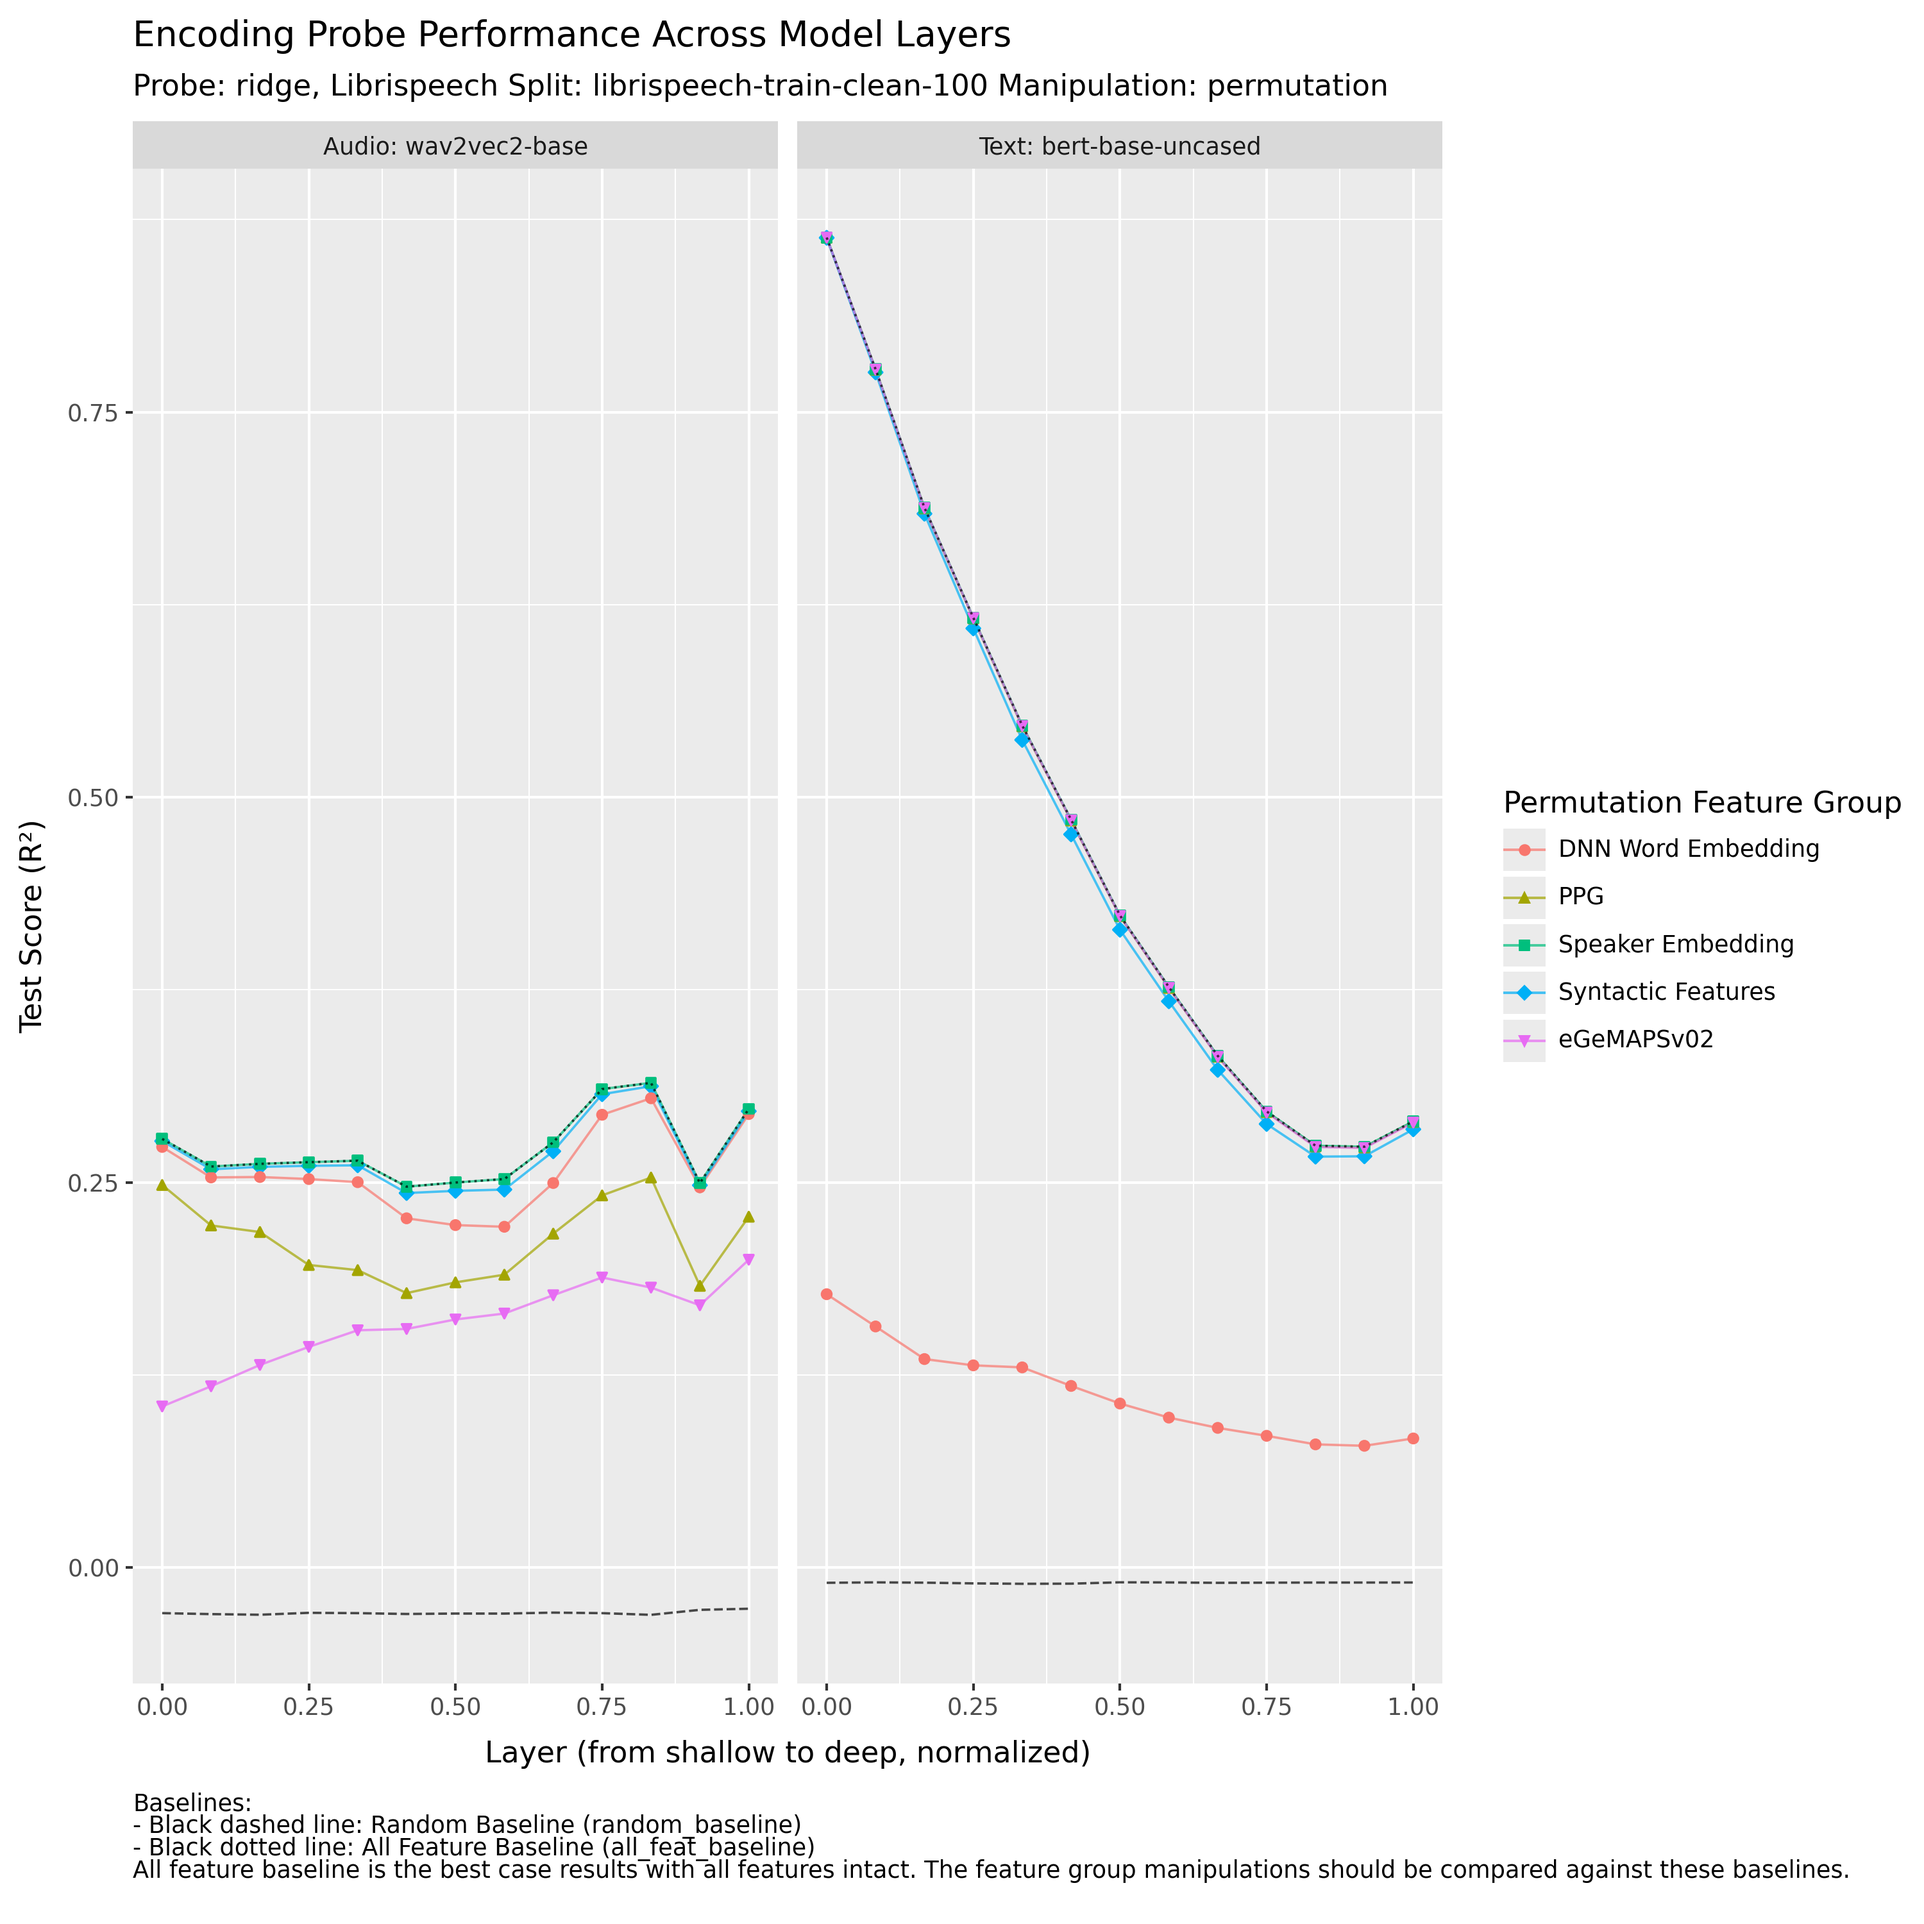
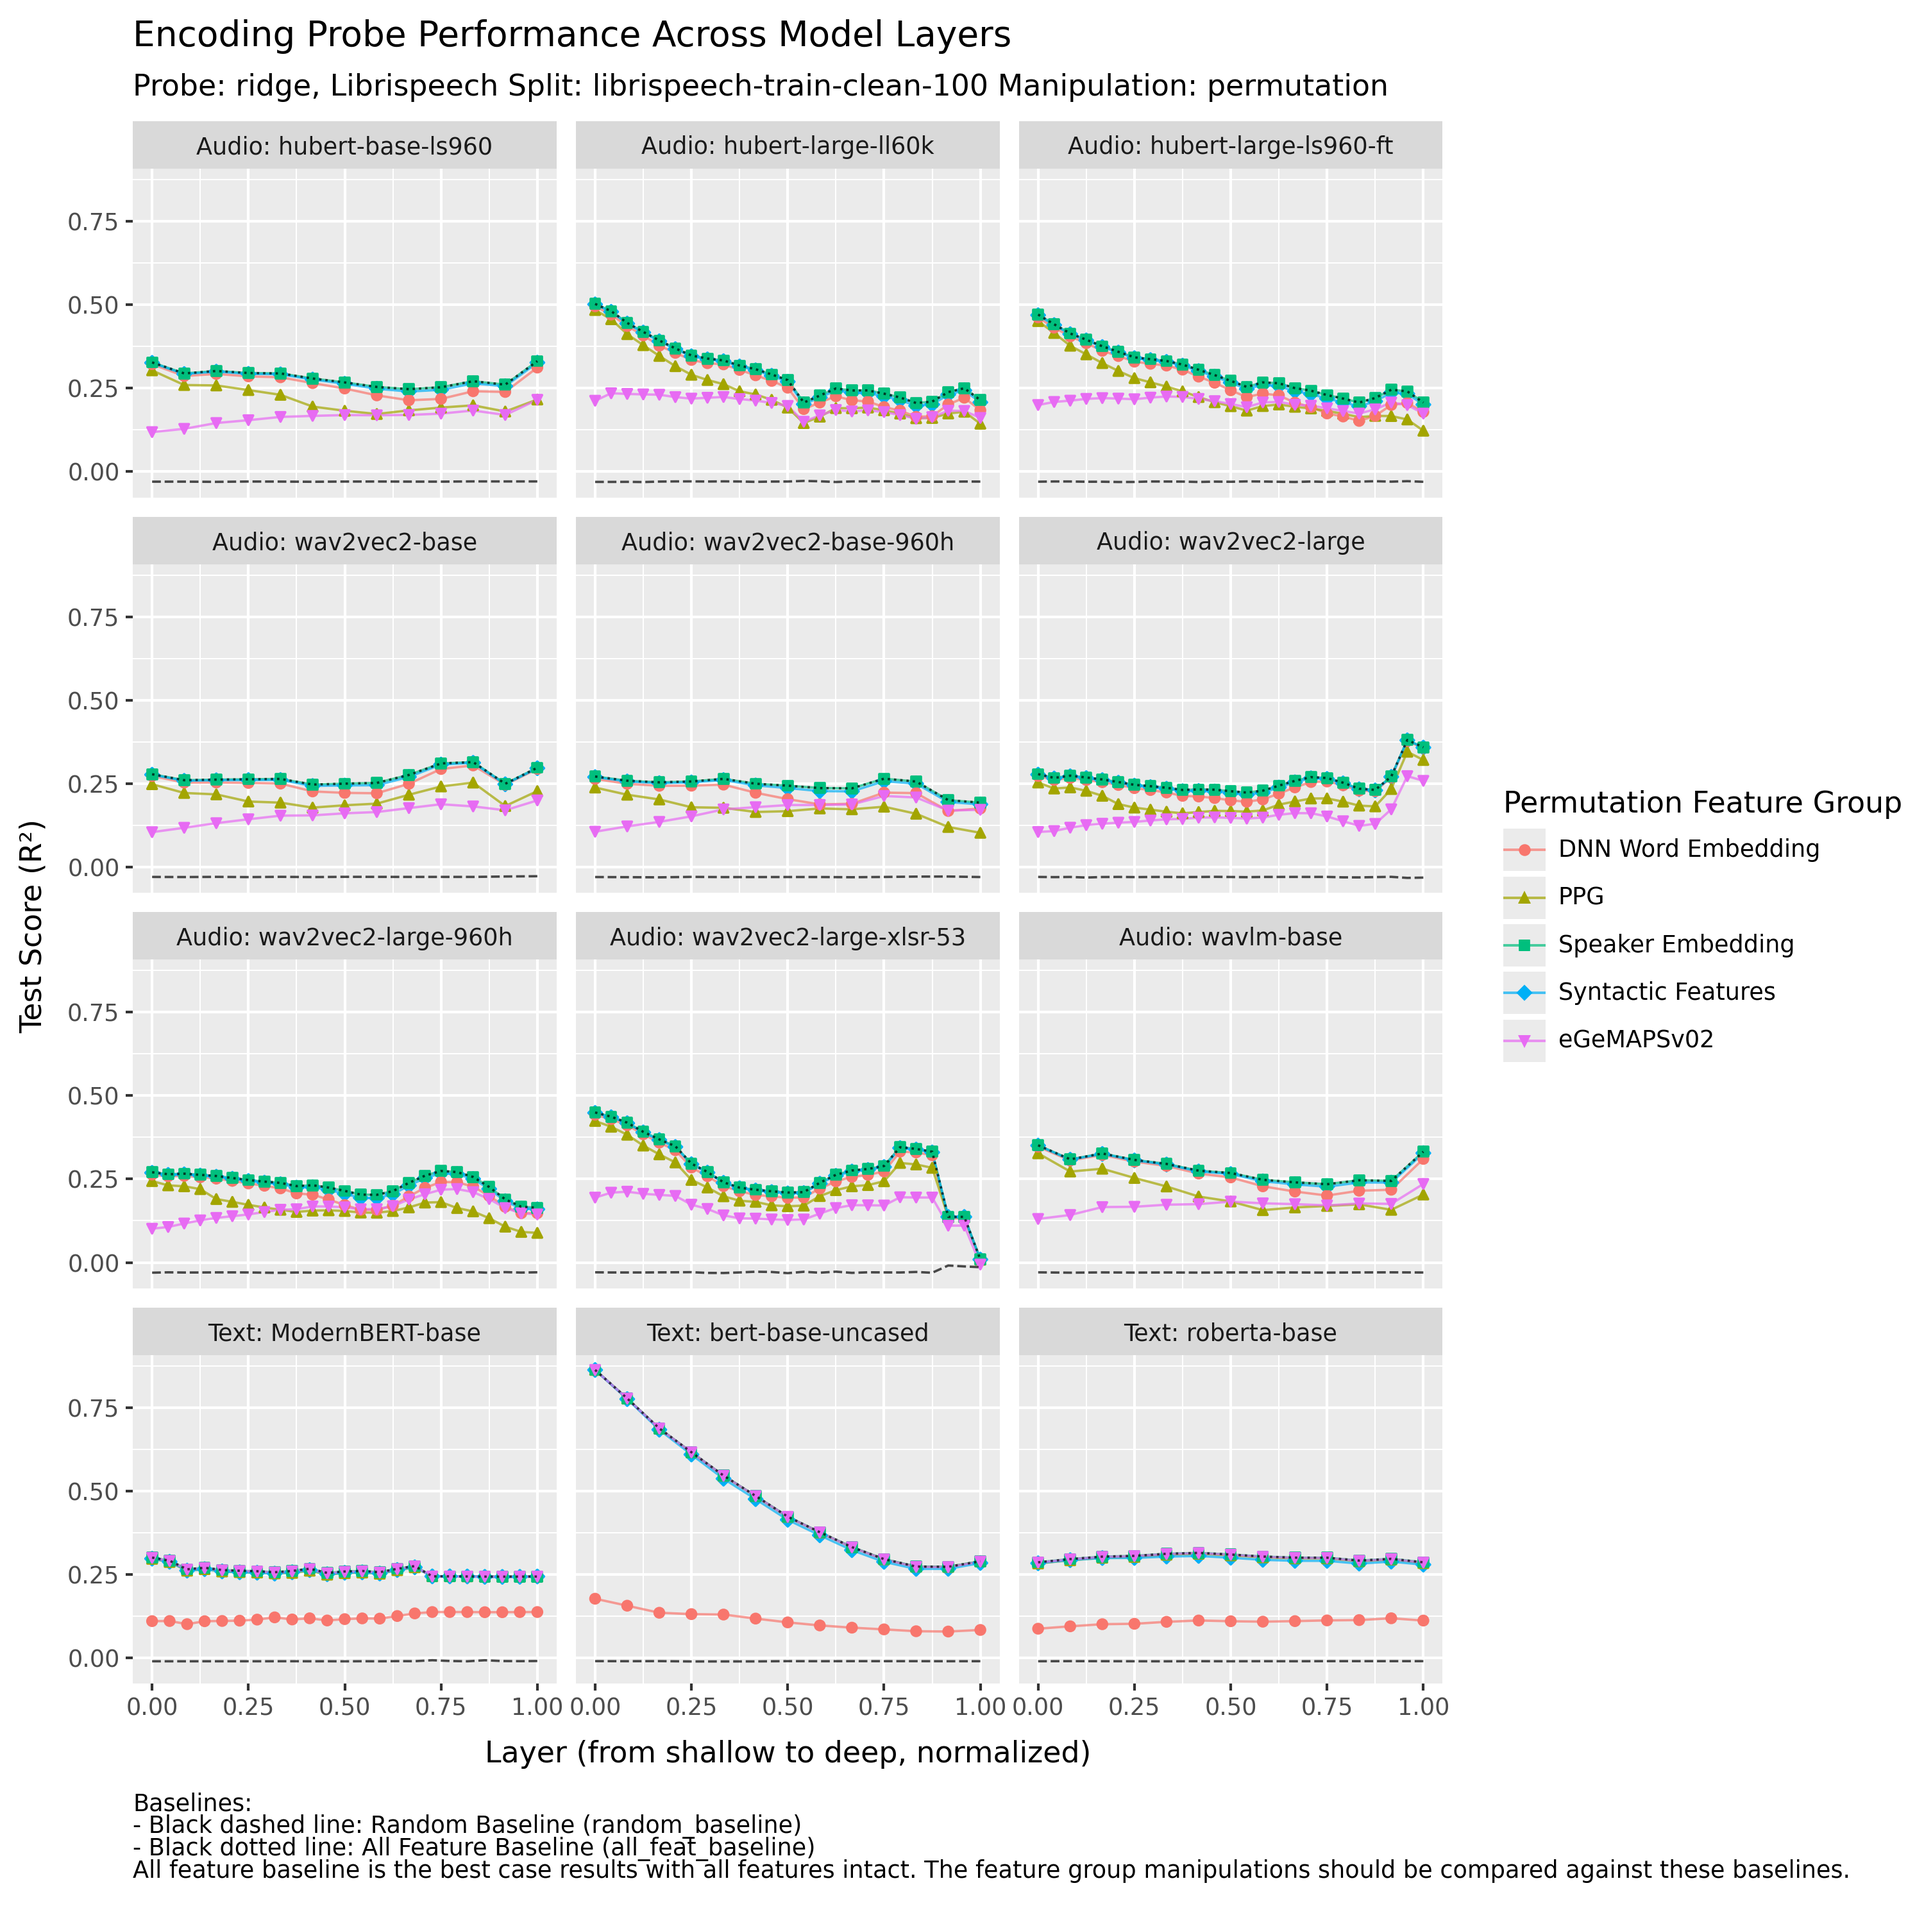
updating results from snellius

diff --git a/src/plotting_results.py b/src/plotting_results.py
@@ -20,7 +20,7 @@ if "snellius" in hostname:
     ALIGNMENT_ROOT = DATASET_ROOT.replace("LibriSpeech", "librispeech_textgrids")
     SAVEPATH = "/projects/prjs1586/experimental_data"
     RESULTS_ROOT = "/projects/prjs1586/experimental_results"
-    FIGURES_ROOT = "/projects/prjs1586/experimental_figures"
+    FIGURES_ROOT = os.path.join(PROJECT_ROOT, "figures")
 
 else:
     # If running on local machine, use the local dataset root
